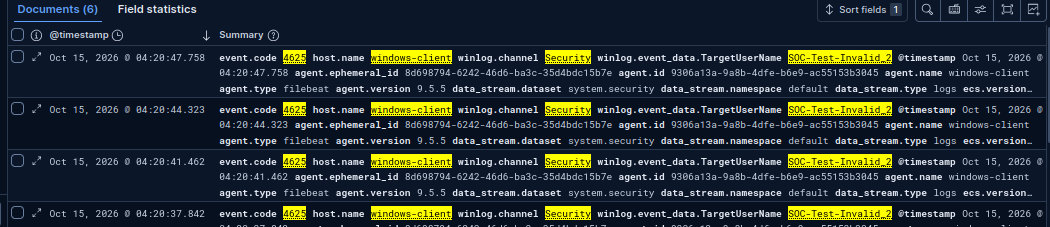
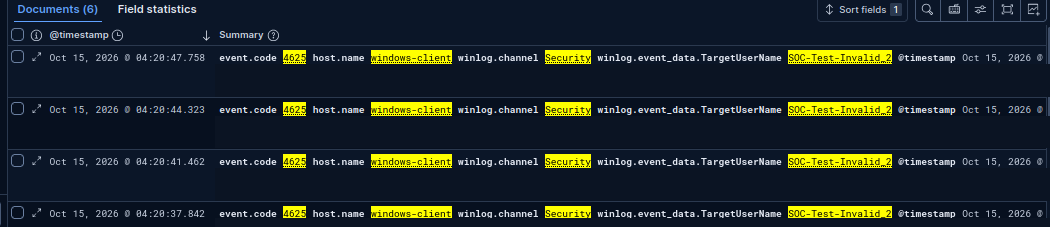
docs: address SOC-WIN-001 review findings

diff --git a/README.md b/README.md
@@ -2,7 +2,7 @@
 
 A hands-on blue-team portfolio project for collecting Windows, Linux, and web-server telemetry in Elastic Security, engineering detections, and documenting investigations.
 
-> **Status:** Active build. Elasticsearch 9.3.3 is operational; the custom HTTP PKI work is documented. Kibana was reported running on 2026-08-26; its current connection and browser TLS still need repository evidence. Fleet, agent onboarding, log-source integrations, detections, and investigations remain unverified or planned. This repository audit does not verify the live VM.
+> **Status (October 2026):** Active development on a Dell laptop running Ubuntu Desktop 26.04.1. The laptop hosts an operational Elastic Security 9.5.5 environment using KVM/libvirt. Fleet Server and Windows Elastic Agent are healthy, Windows Security logs are being ingested, and the SOC-WIN-001 failed-logon detection rule has been successfully validated. The original Dell PowerEdge R710 environment, running Elasticsearch and Kibana 9.3.3, is currently offline pending repair.
 
 ## Objectives
 
@@ -14,14 +14,36 @@ A hands-on blue-team portfolio project for collecting Windows, Linux, and web-se
 
 ## Current environment
 
+### Active SOC homelab — Dell laptop
+
 | Component | Current state |
 |---|---|
-| SIEM server | Ubuntu 24.04, hostname `elastic-siem` |
-| Elasticsearch | 9.3.3, HTTPS enabled |
-| Kibana | Reported running on 2026-08-26; fresh connection/TLS evidence pending |
-| Fleet / Elastic Agent | Planned |
-| PKI | Password-protected lab root CA and HTTP certificate workflow documented |
-| Network | `enp1s0`; last reported address `192.168.100.104/24`; current routing unverified |
+| Physical host | Dell laptop running Ubuntu Desktop 26.04.1 |
+| Virtualization | KVM/QEMU with libvirt |
+| SIEM VM | `elastic-siem` |
+| Elasticsearch | 9.5.5 — operational |
+| Kibana | 9.5.5 — operational |
+| Fleet Server | Operational |
+| Elastic Agent | Healthy on `elastic-siem` and `windows-client` |
+| Windows endpoint | Windows Enterprise Evaluation VM |
+| Windows telemetry | Security Event IDs 4624 and 4625 validated |
+| Detection engineering | SOC-WIN-001 validated |
+| Investigation | Authorized local authentication test completed |
+| Network | Isolated `lab-net`, `192.168.100.0/24` |
+
+### Original SOC environment — Dell PowerEdge R710
+
+| Component | Current state |
+|---|---|
+| Physical server | Dell PowerEdge R710 |
+| Operating system | Ubuntu Server |
+| Elasticsearch | 9.3.3 — previously operational |
+| Kibana | 9.3.3 — previously operational |
+| Availability | Offline pending repair |
+| Upgrade | To be evaluated after hardware restoration |
+
+The two environments are separate. The successful SOC-WIN-001 validation applies to the active laptop-based environment, not the currently offline R710.
+
 
 ## Repository map
 
@@ -60,14 +82,24 @@ See [Screenshot Guide](screenshots/README.md) for the evidence naming standard a
 
 This repository contains documentation and sanitized evidence only. It must never contain private keys, certificate archives, keystores, passwords, enrollment tokens, API keys, real public IP addresses, or unredacted personal data. See [.gitignore](.gitignore).
 
-## Planned detection use cases
+## Detection engineering progress
 
-- Windows Event ID 4625 failed-logon burst
-- Windows privilege-group and privilege-use events
-- Suspicious PowerShell and LOLBin execution
-- Linux SSH authentication failures
-- Linux `sudo` and account-change activity
-- Web reconnaissance and repeated error responses
+### Completed and validated
+
+- [SOC-WIN-001 — Multiple Failed Logon Attempts](detection-rules/SOC-WIN-001.md): Windows Event ID 4625 threshold detection.
+- [SOC-WIN-001 Investigation Report](reports/SOC-WIN-001-investigation.md): Authorized local authentication test, event correlation, source IP verification, and benign-positive classification.
+- [Detection evidence](screenshots/05-detection/README.md): Rule configuration, execution, and generated alert.
+- [Investigation evidence](screenshots/06-investigations/README.md): Windows authentication events and source IP analysis.
+
+### Planned detection use cases
+
+- Kali Linux remote authentication simulation.
+- Windows privilege-group and privilege-use events.
+- Suspicious PowerShell and LOLBin execution.
+- Linux SSH authentication failures.
+- Linux `sudo` and account-change activity.
+- Web reconnaissance and repeated error responses.
+
 
 ## Author
 

diff --git a/docs/06-fleet-and-elastic-agent.md b/docs/06-fleet-and-elastic-agent.md
@@ -4,7 +4,57 @@ This document merges the former empty `06-Fleet.md` and `06-Elastic-Agent.md` pl
 
 ## Status
 
-Planned after Kibana validation.
+**Operational and validated — October 2026.**
+
+Fleet Server and Elastic Agent are running in the active Dell laptop
+SOC homelab using Elastic Stack 9.5.5.
+
+This deployment is separate from the Dell PowerEdge R710 environment,
+which remains offline pending hardware repair.
+
+### Verified deployment
+
+| Component | Verified state |
+|---|---|
+| Elastic Stack | Version 9.5.5 |
+| Fleet Server | Operational on `elastic-siem` |
+| Fleet Server policy | `fleet-server-policy` |
+| Fleet Server agent | Healthy |
+| Windows endpoint | `windows-client` |
+| Windows agent policy | `windows-soc-policy` |
+| Windows Elastic Agent | Healthy |
+| Windows integration | System integration collecting Security logs |
+| Event ingestion | Windows Security Events 4624 and 4625 validated |
+| Detection | SOC-WIN-001 successfully generated threshold alerts |
+
+### Connectivity and certificate validation
+
+- Fleet Server uses HTTPS with a certificate issued by the internal SOC Homelab Root CA.
+- The lab root CA was installed in the Windows Local Machine trusted root store.
+- Fleet Server health was confirmed through its `/api/status` endpoint.
+- Windows Elastic Agent enrollment completed successfully without `--insecure`.
+- Both Fleet-managed agents were subsequently confirmed Healthy.
+
+### Detection validation
+
+The Windows integration forwards authentication events to the
+`logs-system.security-default` data stream.
+
+SOC-WIN-001 detected repeated failed authentication attempts during
+authorized local testing.
+
+The investigation identified an IPv6 loopback source (`::1`), consistent
+with the controlled local test.
+
+Remote authentication testing using Kali Linux remains pending.
+
+Supporting evidence:
+
+- [Detection Rule](../detection-rules/SOC-WIN-001.md)
+- [Investigation Report](../reports/SOC-WIN-001-investigation.md)
+- [Detection Screenshots](../screenshots/05-detection/README.md)
+- [Investigation Screenshots](../screenshots/06-investigations/README.md)
+
 
 ## Deployment sequence
 
